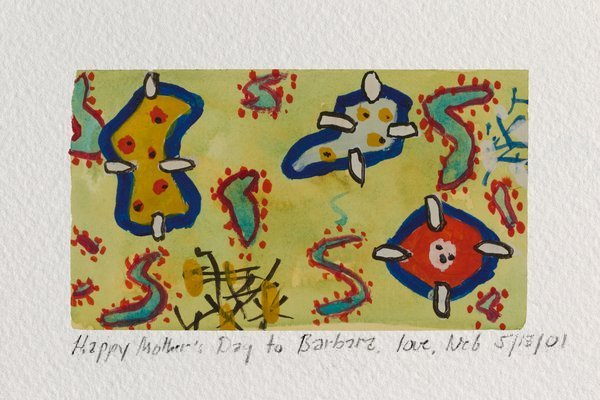
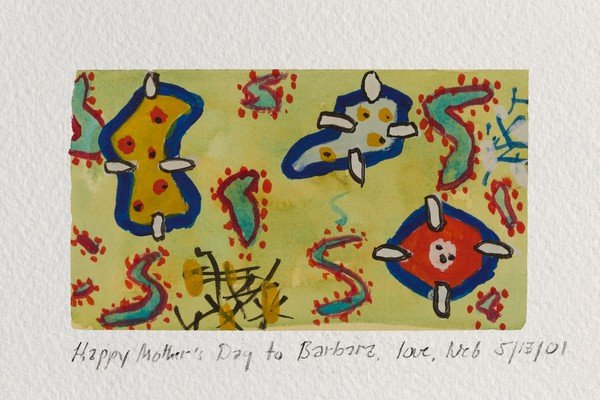
Emergence: dedication moved 8px lower on screen

Changed region(s): [[0.12, 0.84, 0.63, 0.93], [0.66, 0.84, 0.96, 0.9]]

diff --git a/SITE-STATE.md b/SITE-STATE.md
@@ -142,7 +142,7 @@ The three templated gallery files (clean, boxed, horizontal) share the same data
 
 ## Assets
 
-- **Artwork images (2026-10-11)**: 53 works from "Ned - Website Images" (next to the site folder; `artworks.csv` is the source of titles, taglines, series and orientation; the folder itself is never edited). Each is in `assets/works/` at 2400px (landscape 2400 x 1600, portrait 1600 x 2400, exactly 3:2 and 2:3) and `assets/thumbs/` at 600px on the long side, named by series and title without the size suffix (e.g. `core_script.jpg`, `tonal_vesper-1.jpg`). Copies have their embedded caption tag removed (no tool credit) without re-compressing, except three turned to match Ned's documentation decks (Brilliance 180°, Within and Cubicle 90° clockwise to portrait), which were re-saved at high quality. Emergence uses `emergence-3_textured-frame-dedication`. Overlook is the one work new to the gallery. The homepage, the grid, G5, G6 and G7 all use these files; the works lists embedded in G5, G6 and G7 were regenerated (63 visible works).
+- **Artwork images (2026-10-11)**: 53 works from "Ned - Website Images" (next to the site folder; `artworks.csv` is the source of titles, taglines, series and orientation; the folder itself is never edited). Each is in `assets/works/` at 2400px (landscape 2400 x 1600, portrait 1600 x 2400, exactly 3:2 and 2:3) and `assets/thumbs/` at 600px on the long side, named by series and title without the size suffix (e.g. `core_script.jpg`, `tonal_vesper-1.jpg`). Copies have their embedded caption tag removed (no tool credit) without re-compressing, except three turned to match Ned's documentation decks (Brilliance 180°, Within and Cubicle 90° clockwise to portrait), which were re-saved at high quality. Emergence uses `emergence-3_textured-frame-dedication`; on the site copy (`core_emergence.jpg` and its thumbnail) the handwritten dedication under the painting was moved 28px lower in the 2400px file (about 8px on screen on the detail page at 1440px), the gap above it filled with the same blank paper; the master folder's copy is unchanged. Overlook is the one work new to the gallery. The homepage, the grid, G5, G6 and G7 all use these files; the works lists embedded in G5, G6 and G7 were regenerated (63 visible works).
 - **The 11 untitled works** (2026-10-11): Outliers 1 to 7, The Turning 6, Convergence 6 and 7, and Ascent 1, made from the finalized 4328px scans in `google drive Ned/Arbor & Eye/Finalized Imagery` and `Finalized Photography` (local copies only), trimmed to exact 3:2 or 2:3 (0.2 to 1.8% of paper margin) and saved at 2400px and 600px without embedded tags (the photographer's copyright tag included), named like the rest (`outliers_outliers-1.jpg`, `the-turning_the-turning-6.jpg`, `convergence_convergence-6.jpg`, `ascent_ascent-1.jpg`). Ascent 1's scan is stored sideways and was turned 90° clockwise to stand upright as on the earlier site (it is not in the decks). All 11 were also added to "Ned - Website Images" (`detail-2400/`, `thumb-600/`, rows in `artworks.csv`, untitled). Placeholder titles stay until Ned titles them. Every work in the live galleries is now on the new files.
 - **Proportions**: everything that assumed the old 1.494:1 scans now uses exactly 3:2 (G5's 12-up box, the homepage frame and thumbnails, `tools/uniform-works.py`). Orientation follows the documentation decks (`Painting Documentation.zip`); `Ned - Website Works Mapping.xlsx` (next to the site folder) lists every work with its thumbnail, old site title and notes, plus open questions.
 - Fallback: a light green box shows if any artwork file is missing.
